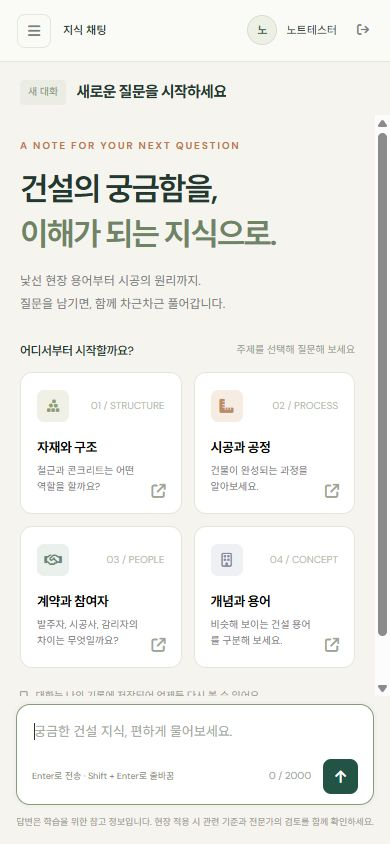
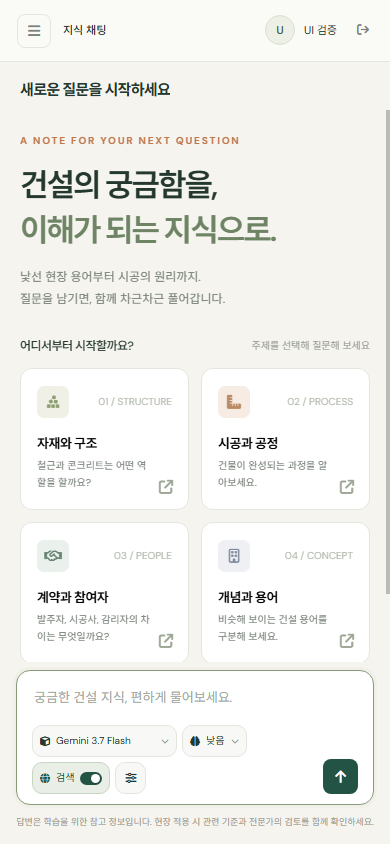
docs: refresh desktop and mobile composer screenshots

diff --git a/docs/ui-review.md b/docs/ui-review.md
@@ -22,9 +22,9 @@
 - [ ] 모델한도/검색거절/빈답변/시간초과 안내와 전송잠금 해제
 - [ ] 검색출처·제안 표시와 기록재조회
 
-## 기존 화면 참고
+## 화면 예시
 
-아래는 도구모음 개편 전 화면입니다.
+채팅 스크린샷은 로컬 검증 데이터로 확인한 입력창 도구 모음입니다. 기록·로그인 화면은 같은 공통 디자인을 사용합니다.
 
 ![채팅](screenshots/chat-desktop.png)
 ![기록](screenshots/logs-desktop.png)
